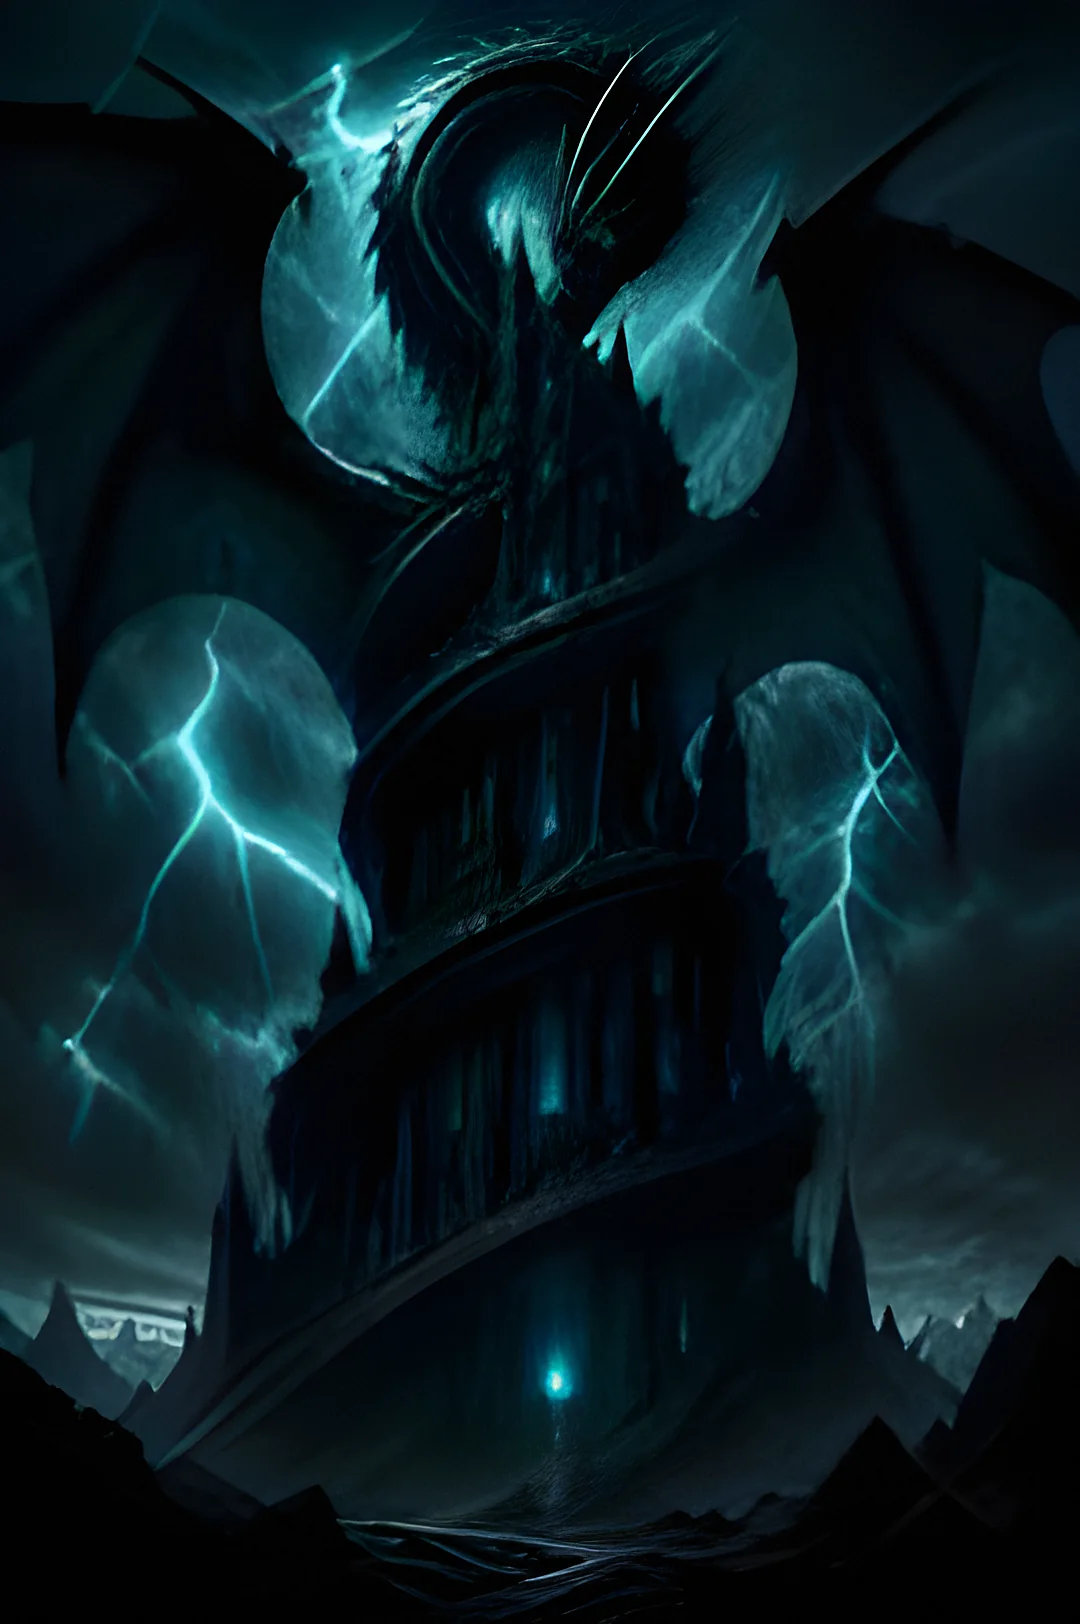
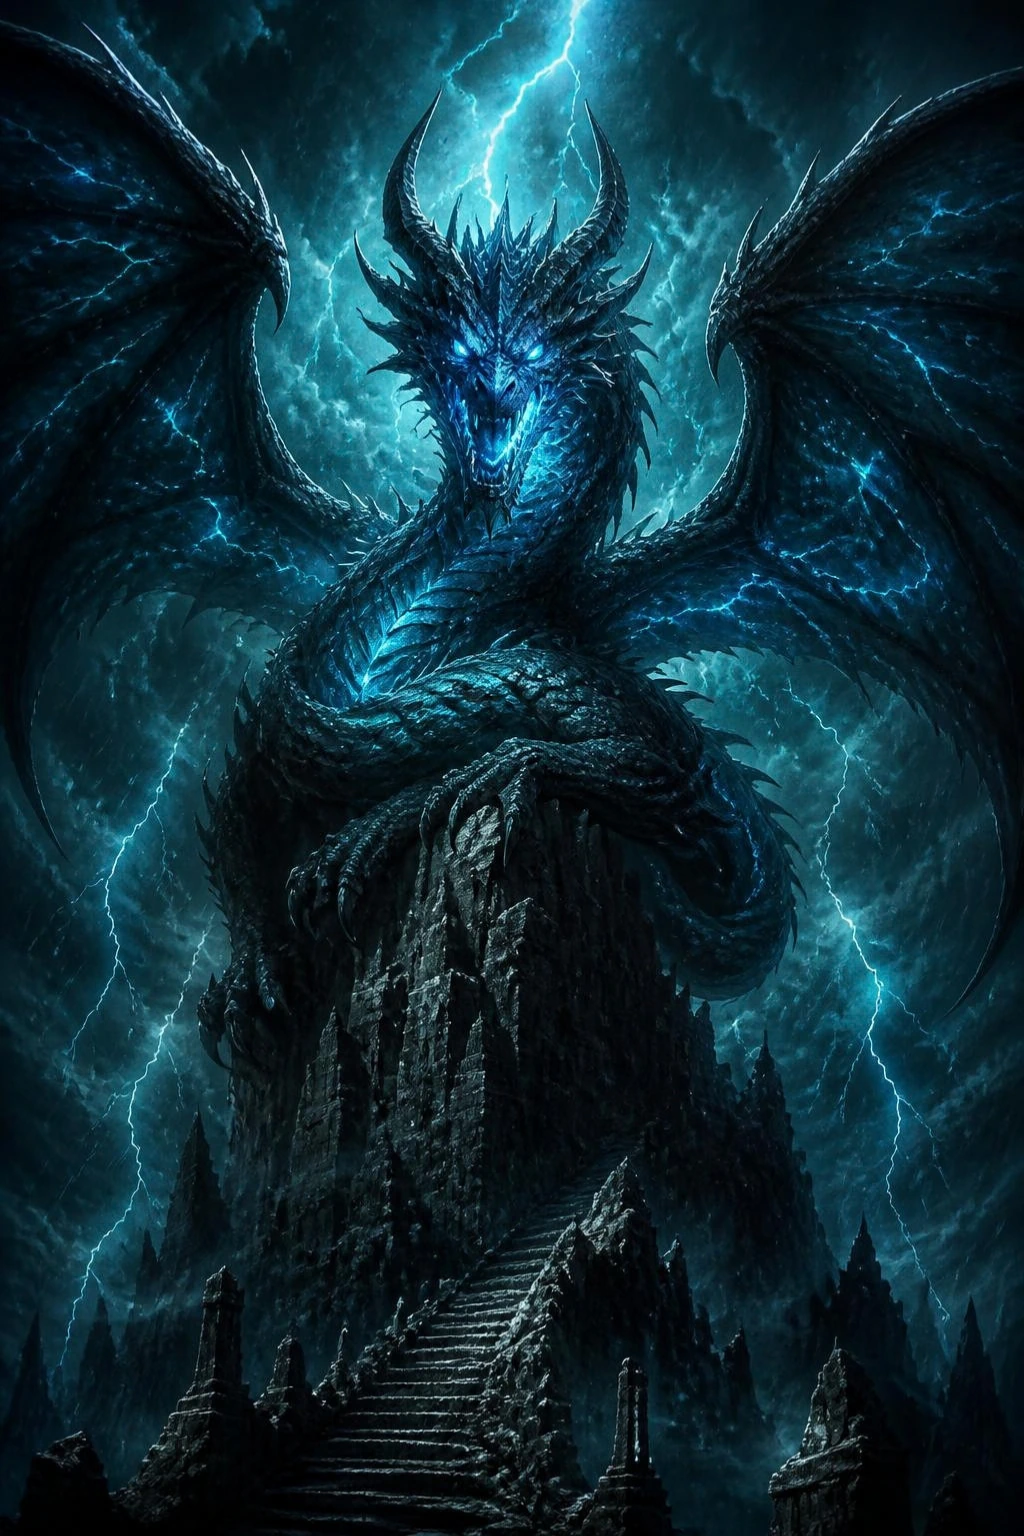
New drill site background, sharper storm dragon, boss scenes fill the stage
- Signal Relay drill screen: a bore-shaft cave (pipes, rails, lanterns)
  instead of the recoloured crystal painting behind the drill (1680x944).
- Storm Spire boss: new 1024x1536 storm dragon on the spire; eye glow and
  breath point re-mapped into the 9:16 scene box.
- Boss scenes always cover the stage edge to edge (no dark side bars); on
  wide stages the camera frames just below the eye line so heads stay in.

Claude-Session: https://claude.ai/code/session_01DvECoPsAXgCQYdVXE6FK77

diff --git a/src/components/clicker/clicker-boss-scene.css b/src/components/clicker/clicker-boss-scene.css
@@ -9,14 +9,12 @@
   /* The painting replaces the region backdrop entirely — no blue stage showing round it. */
   background: #04060a;
 }
-/* The 9:16 painting covers a portrait stage; on a wide stage it is zoomed at most a little past
-   fit-to-height (so the monster stays in frame instead of a blown-up patch of sky), and its
-   side edges fade into black. Overlays stay pinned to the art. */
+/* The 9:16 painting always fills the stage edge to edge. On a wide stage it is taller than the
+   stage, so the camera frames the monster's body and crops sky and ground instead of leaving
+   dark bars at the sides. Overlays stay pinned to the art. */
 .boss-scene-box {
-  /* As wide as the stage allows (up to fit-width at 100cqh), framed on the monster's body:
-     the box is taller than the stage then, so the camera centres the body and only the
-     ground crops away — never leaving a gap above or below. */
-  --w: clamp(56.25cqh, 100cqw, 100cqh);
+  /* Cover: at least full width, and at least full height on a portrait stage. */
+  --w: max(56.25cqh, 100cqw);
   --h: calc(var(--w) * 16 / 9);
   position: absolute;
   left: 50%;
@@ -24,11 +22,6 @@
   width: var(--w);
   aspect-ratio: 9 / 16;
   translate: -50% 0;
-}
-.boss-scene-base {
-  --edge: linear-gradient(90deg, transparent, #000 5%, #000 95%, transparent);
-  -webkit-mask-image: var(--edge);
-  mask-image: var(--edge);
 }
 .boss-scene-base,
 .boss-scene-body {

diff --git a/src/components/clicker/clicker-boss-scene.tsx b/src/components/clicker/clicker-boss-scene.tsx
@@ -31,9 +31,9 @@ type SceneDef = {
 export const BOSS_SCENES: Record<string, SceneDef> = {
   stormbird: {
     src: "/clicker/boss/storm_spire.webp",
-    body: { x: 50, y: 30, w: 96, h: 54 },
-    eyes: [{ x: 46, y: 15 }, { x: 53, y: 15 }],
-    strike: { x: 50, y: 70 },
+    body: { x: 50, y: 30, w: 98, h: 56 },
+    eyes: [{ x: 44.1, y: 23 }, { x: 52.6, y: 23 }],
+    strike: { x: 48.8, y: 30 },
     weather: "storm",
     tint: "120 220 255",
     attackSfx: "dragonBreath",
@@ -62,6 +62,9 @@ export const BOSS_SCENES: Record<string, SceneDef> = {
 }
 
 const ATTACK_EVERY_MS = 4200
+/** How far below the eye line (% of the art's height) a wide stage centres the camera. */
+const FRAME_BELOW_EYES = 8
+
 /** Anticipation (rear up), strike, recover — the strike beat lands when the engine deals damage. */
 const WINDUP_MS = 1100
 const STRIKE_MS = 900
@@ -145,10 +148,12 @@ export function ClickerBossScene({ kind, name, alive, battle, shieldMs = 0, taun
   }
 
   const b = scene.body
+  // Camera target on a wide stage: just below the eye line, so the head is always in frame.
+  const eyeY = scene.eyes.reduce((sum, e) => sum + e.y, 0) / Math.max(1, scene.eyes.length)
   const vars = {
     "--bx": `${b.x}%`,
     "--by": `${b.y}%`,
-    "--byn": b.y / 100,
+    "--byn": Math.min(b.y, eyeY + FRAME_BELOW_EYES) / 100,
     "--bw": `${b.w}%`,
     "--bh": `${b.h}%`,
     "--tint": scene.tint,
